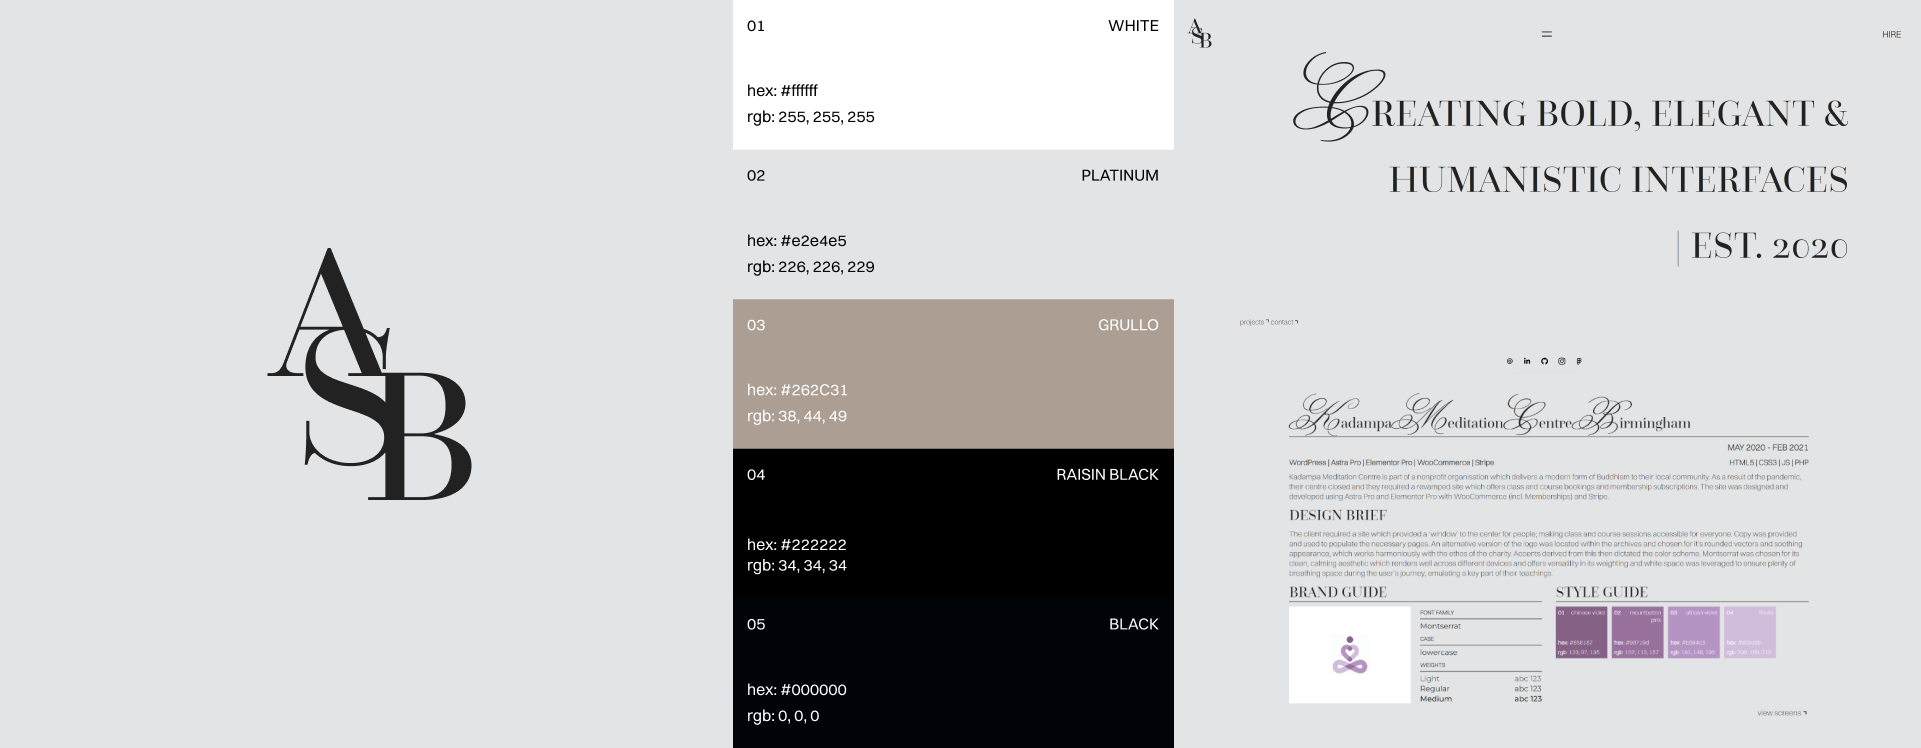
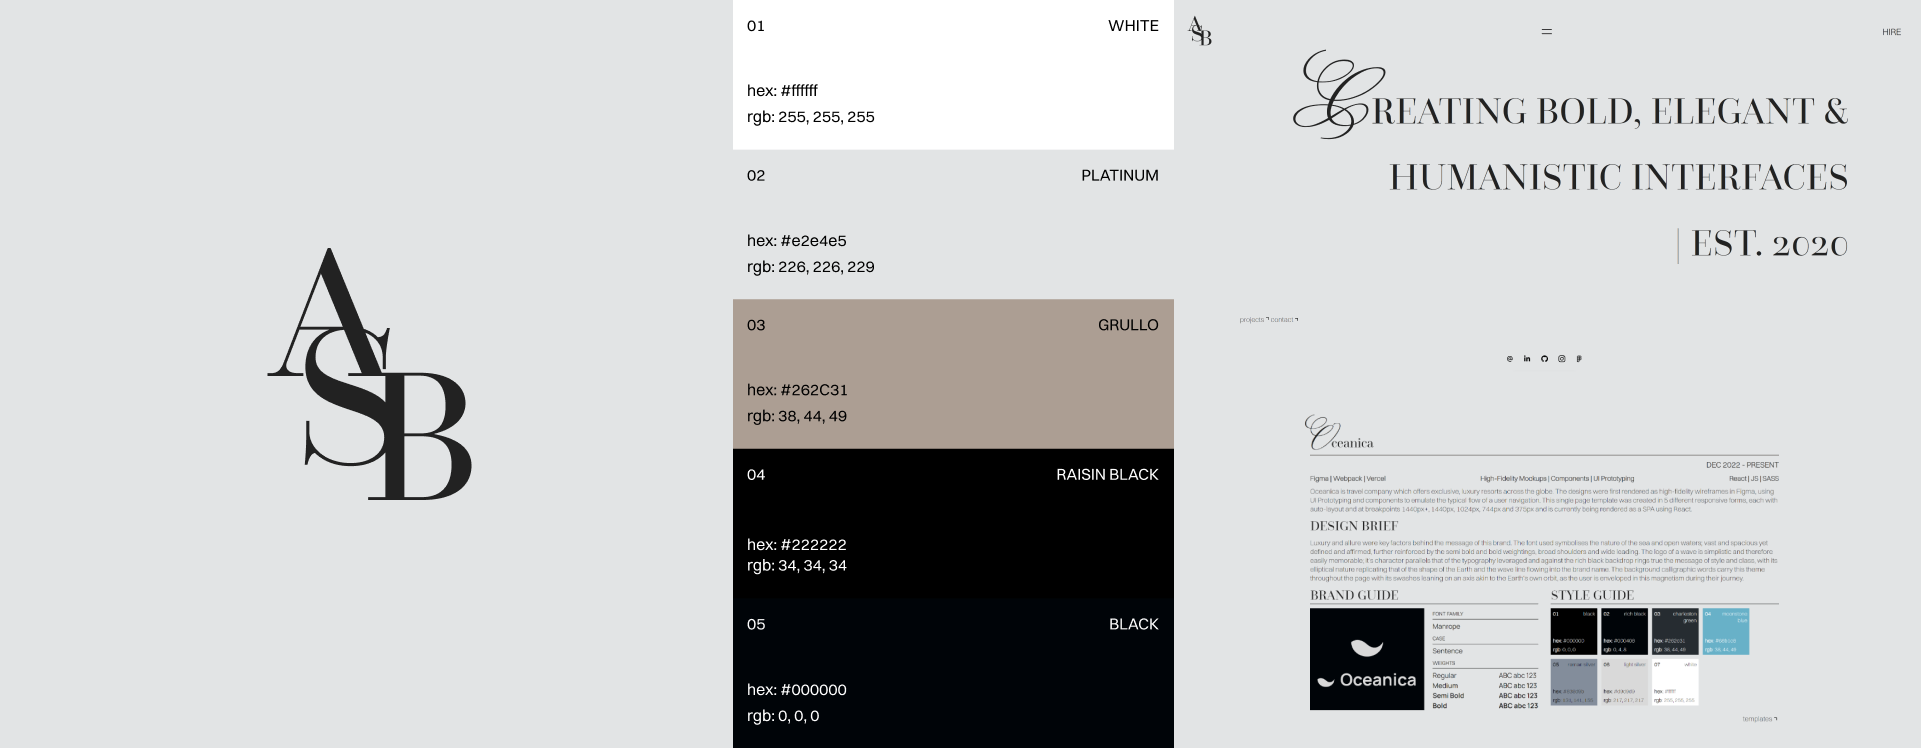
ran build-prod for deployment - replaced project cover

diff --git a/dist/index.html b/dist/index.html
@@ -1,1 +1,1 @@
-<!DOCTYPE html><html lang="en"><head><meta charset="UTF-8"><meta http-equiv="X-UA-Compatible" content="IE=edge"><link rel="icon" type="image/x-icon" href="{ %=o.htmlWebpackPlugin.files.favicon% }"><meta name="msvalidate.01" content="0423AE2CFB46C4E4956A53CD0DC4FB72"><meta name="viewport" content="width=device-width,initial-scale=1"><meta name="author" content="Aman Singh Bhogal"><meta name="description" content="The personal portfolio site of Aman Singh Bhogal. Front End Developer &amp; UI Engineer"><link rel="preload" href="/images/33d7b67637d813601d01.woff" as="font" crossorigin=""><link rel="preload" href="/images/9dc64692f1ddad3c0ca3.woff2" as="font" crossorigin=""><link rel="preload" href="/images/ba212e23a6abb97a6775.woff" as="font" crossorigin=""><link rel="preload" href="/images/99b1f0ededcfb658f6ef.woff2" as="font" crossorigin=""><link rel="preload" href="/images/8fbdea08412c70e6d65c.woff" as="font" crossorigin=""><link rel="preload" href="/images/ee886f49896d934d6c26.woff2" as="font" crossorigin=""><link rel="preload" href="/images/21e541a4a652a7fa0d6a.woff" as="font" crossorigin=""><link rel="preload" href="/images/fc432875c59da8482816.woff2" as="font" crossorigin=""><link rel="preload" href="/images/26f739ed3a0348e5d66a.woff" as="font" crossorigin=""><link rel="preload" href="/images/81335b4157f575ef4249.woff2" as="font" crossorigin=""><link rel="preload" href="/images/f8c4b51c613b8c0f88ea.woff" as="font" crossorigin=""><link rel="preload" href="/images/6fcad65b7a8f7ffabb8e.woff2" as="font" crossorigin=""><link rel="preload" href="/images/2faa383bb66313c2a072.woff" as="font" crossorigin=""><link rel="preload" href="/images/8a50feca5194fae5cc45.woff2" as="font" crossorigin=""><link rel="preload" href="/images/8709b7f1f6fabaaa7896.woff" as="font" crossorigin=""><link rel="preload" href="/images/ab564c2dbbe039da8cb5.woff2" as="font" crossorigin=""><link rel="preload" href="/images/8f8c5ea1d3a580b04e28.woff" as="font" crossorigin=""><link rel="preload" href="/images/eccbcfa9bc0203198ac6.woff2" as="font" crossorigin=""><link rel="preload" href="/images/51d61d733d65ebf2458a.woff2" as="font" crossorigin=""><link rel="preload" href="/images/573292a805d572a8fab2.woff" as="font" crossorigin=""><link rel="preload" href="/images/86ea9c7b23711d2bcb8d.woff" as="font" crossorigin=""><link rel="preload" href="/images/451d7d8c7ae016fd0740.woff2" as="font" crossorigin=""><link rel="preload" href="/images/06d5d5a8a3fb137f2ca8.woff" as="font" crossorigin=""><link rel="preload" href="/images/c3c8fbc30da8cfe4e910.woff2" as="font" crossorigin=""><link rel="preload" href="/images/632c80108f4d21251a3e.woff" as="font" crossorigin=""><link rel="preload" href="/images/05b6ef303805a485b26d.woff2" as="font" crossorigin=""><link rel="preload" href="/images/b7344814bf982f6838e1.woff2" as="font" crossorigin=""><link rel="preload" href="/images/0f035061db7e2a4c2c3d.woff" as="font" crossorigin=""><link rel="preload" href="/images/774f99460b8c31560a3c.woff" as="font" crossorigin=""><link rel="preload" href="/images/9429985be4f46ec8fcfc.woff2" as="font" crossorigin=""><link rel="preload" href="/images/a858a164689ad78eb69f.woff" as="font" crossorigin=""><link rel="preload" href="/images/724cac5ff9b68dcf36de.woff2" as="font" crossorigin=""><link rel="preload" href="/images/603fcbed1a903610fbc0.woff" as="font" crossorigin=""><title>Personal Portfolio Site</title><link rel="icon" href="/Portfolio-Favicon-Universal.svg"><script defer="defer" src="/main.js"></script><link href="/main.css" rel="stylesheet"></head><body><div id="root"></div></body></html>
+<!DOCTYPE html><html lang="en"><head><meta charset="UTF-8"><meta http-equiv="X-UA-Compatible" content="IE=edge"><link rel="icon" type="image/x-icon" href="{ %=o.htmlWebpackPlugin.files.favicon% }"><meta name="msvalidate.01" content="0423AE2CFB46C4E4956A53CD0DC4FB72"><meta name="viewport" content="width=device-width,initial-scale=1"><meta name="author" content="Aman Singh Bhogal"><meta name="description" content="The personal portfolio site of Aman Singh Bhogal. Front End Developer &amp; UI Engineer"><link rel="preload" href="/images/33d7b67637d813601d01.woff" as="font" crossorigin=""><link rel="preload" href="/images/9dc64692f1ddad3c0ca3.woff2" as="font" crossorigin=""><link rel="preload" href="/images/ba212e23a6abb97a6775.woff" as="font" crossorigin=""><link rel="preload" href="/images/99b1f0ededcfb658f6ef.woff2" as="font" crossorigin=""><link rel="preload" href="/images/8fbdea08412c70e6d65c.woff" as="font" crossorigin=""><link rel="preload" href="/images/ee886f49896d934d6c26.woff2" as="font" crossorigin=""><link rel="preload" href="/images/21e541a4a652a7fa0d6a.woff" as="font" crossorigin=""><link rel="preload" href="/images/fc432875c59da8482816.woff2" as="font" crossorigin=""><link rel="preload" href="/images/26f739ed3a0348e5d66a.woff" as="font" crossorigin=""><link rel="preload" href="/images/81335b4157f575ef4249.woff2" as="font" crossorigin=""><link rel="preload" href="/images/f8c4b51c613b8c0f88ea.woff" as="font" crossorigin=""><link rel="preload" href="/images/6fcad65b7a8f7ffabb8e.woff2" as="font" crossorigin=""><link rel="preload" href="/images/2faa383bb66313c2a072.woff" as="font" crossorigin=""><link rel="preload" href="/images/8a50feca5194fae5cc45.woff2" as="font" crossorigin=""><link rel="preload" href="/images/8709b7f1f6fabaaa7896.woff" as="font" crossorigin=""><link rel="preload" href="/images/ab564c2dbbe039da8cb5.woff2" as="font" crossorigin=""><link rel="preload" href="/images/eccbcfa9bc0203198ac6.woff2" as="font" crossorigin=""><link rel="preload" href="/images/8f8c5ea1d3a580b04e28.woff" as="font" crossorigin=""><link rel="preload" href="/images/51d61d733d65ebf2458a.woff2" as="font" crossorigin=""><link rel="preload" href="/images/573292a805d572a8fab2.woff" as="font" crossorigin=""><link rel="preload" href="/images/86ea9c7b23711d2bcb8d.woff" as="font" crossorigin=""><link rel="preload" href="/images/451d7d8c7ae016fd0740.woff2" as="font" crossorigin=""><link rel="preload" href="/images/06d5d5a8a3fb137f2ca8.woff" as="font" crossorigin=""><link rel="preload" href="/images/c3c8fbc30da8cfe4e910.woff2" as="font" crossorigin=""><link rel="preload" href="/images/632c80108f4d21251a3e.woff" as="font" crossorigin=""><link rel="preload" href="/images/0f035061db7e2a4c2c3d.woff" as="font" crossorigin=""><link rel="preload" href="/images/05b6ef303805a485b26d.woff2" as="font" crossorigin=""><link rel="preload" href="/images/b7344814bf982f6838e1.woff2" as="font" crossorigin=""><link rel="preload" href="/images/774f99460b8c31560a3c.woff" as="font" crossorigin=""><link rel="preload" href="/images/9429985be4f46ec8fcfc.woff2" as="font" crossorigin=""><link rel="preload" href="/images/a858a164689ad78eb69f.woff" as="font" crossorigin=""><link rel="preload" href="/images/603fcbed1a903610fbc0.woff" as="font" crossorigin=""><link rel="preload" href="/images/724cac5ff9b68dcf36de.woff2" as="font" crossorigin=""><title>Personal Portfolio Site</title><link rel="icon" href="/Portfolio-Favicon-Universal.svg"><script defer="defer" src="/main.js"></script><link href="/main.css" rel="stylesheet"></head><body><div id="root"></div></body></html>
